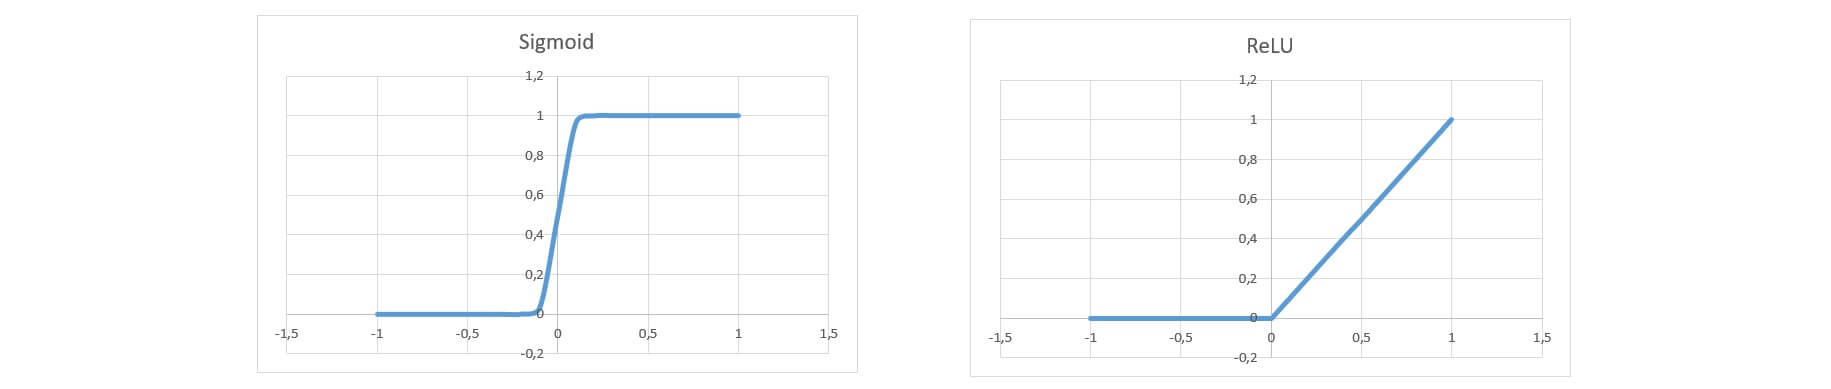
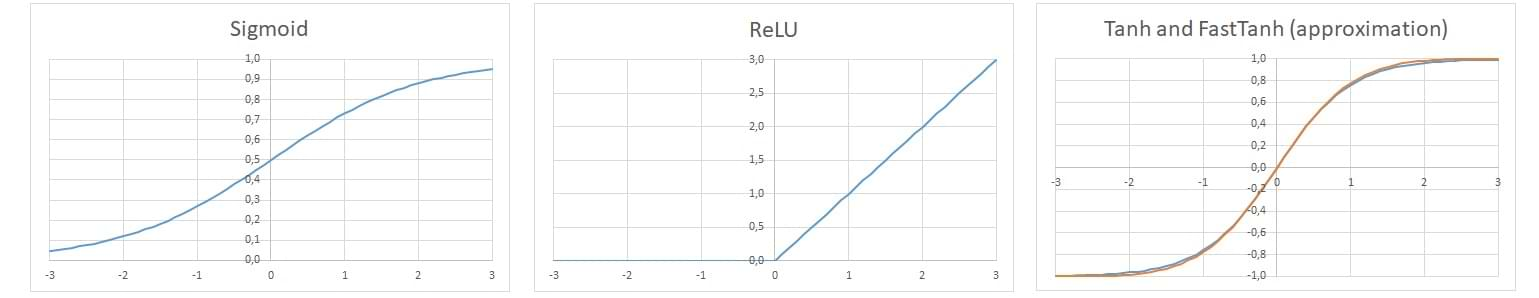
Add files via upload

diff --git a/README.md b/README.md
@@ -2,7 +2,7 @@
 # Neural Network from Scratch (C++ for Arduino) - A Clap Recognition System
 
 
-Ever dreamed of building a clap recognition system that stays focused—even when a dog barks or dishes clatter in the background? Lightweight neural network delivers 97% accurate clap detection, all while running efficiently on Arduino boards without straining their resources.
+Ever dreamed of building a clap recognition system that stays focused—even when a dog barks or dishes clatter in the background? Lightweight neural network delivers more than 80% accurate clap detection, all while running efficiently on Arduino boards without straining their resources.
 
 
 ## What You Need
@@ -58,7 +58,7 @@ $$
 
 _Bias_ is a vector of equal size as the output vector of each layer. By providing each neuron with a trainable constant value, bias increases the flexibility of the model, allowing the network to fit the data more accurately.
 
-_af_ is a non-linear neuron activation function. It must be non-linear; otherwise, the whole neural network would just be a linear system. The ones used here are _Sigmoid_ and _ReLU_:
+_af_ is a non-linear neuron activation function. It must be non-linear; otherwise, the whole neural network would just be a linear system. The ones used here are _Sigmoid_, _ReLU_, _Tanh_ and its approximation fro faster calculation (_FastTanh_):
 
 
 $$
@@ -67,6 +67,14 @@ $$
 
 $$
 \\ ReLU (x) = max (0, x)
+$$
+
+$$
+\\ Tanh (x) = \frac{e^{x} - e^{-x}}{e^{x} + e^{-x}}
+$$
+
+$$
+\\ FastTanh (x) = x \cdot \frac{27 + x^{2}}{27 + 9 \cdot x^{2}}
 $$
 
 
@@ -275,7 +283,7 @@ $$
 $$
 
 
-When the Sigmoid activation function is used, input values are squashed into the range between 0 and 1. This nonlinearity can lead to vanishing gradients, making it difficult for backpropagation to effectively update the network's weights. Xavier initialization addresses this issue by keeping the variance of activations and gradients stable across layers, improving signal flow during training.
+When the Sigmoid (or Tanh) activation function is used, input values are squashed into the range between 0 and 1 (or -1 and 1). This nonlinearity can lead to vanishing gradients, making it difficult for backpropagation to effectively update the network's weights. Xavier initialization addresses this issue by keeping the variance of activations and gradients stable across layers, improving signal flow during training.
 
 In contrast, the ReLU activation function zeroes out all negative inputs, effectively “killing” half of the signal. To compensate for this drop in signal strength, He initialization uses a larger variance than Xavier. This helps maintain the flow of information through the network and ensures more stable training with ReLU-activated layers.
 
